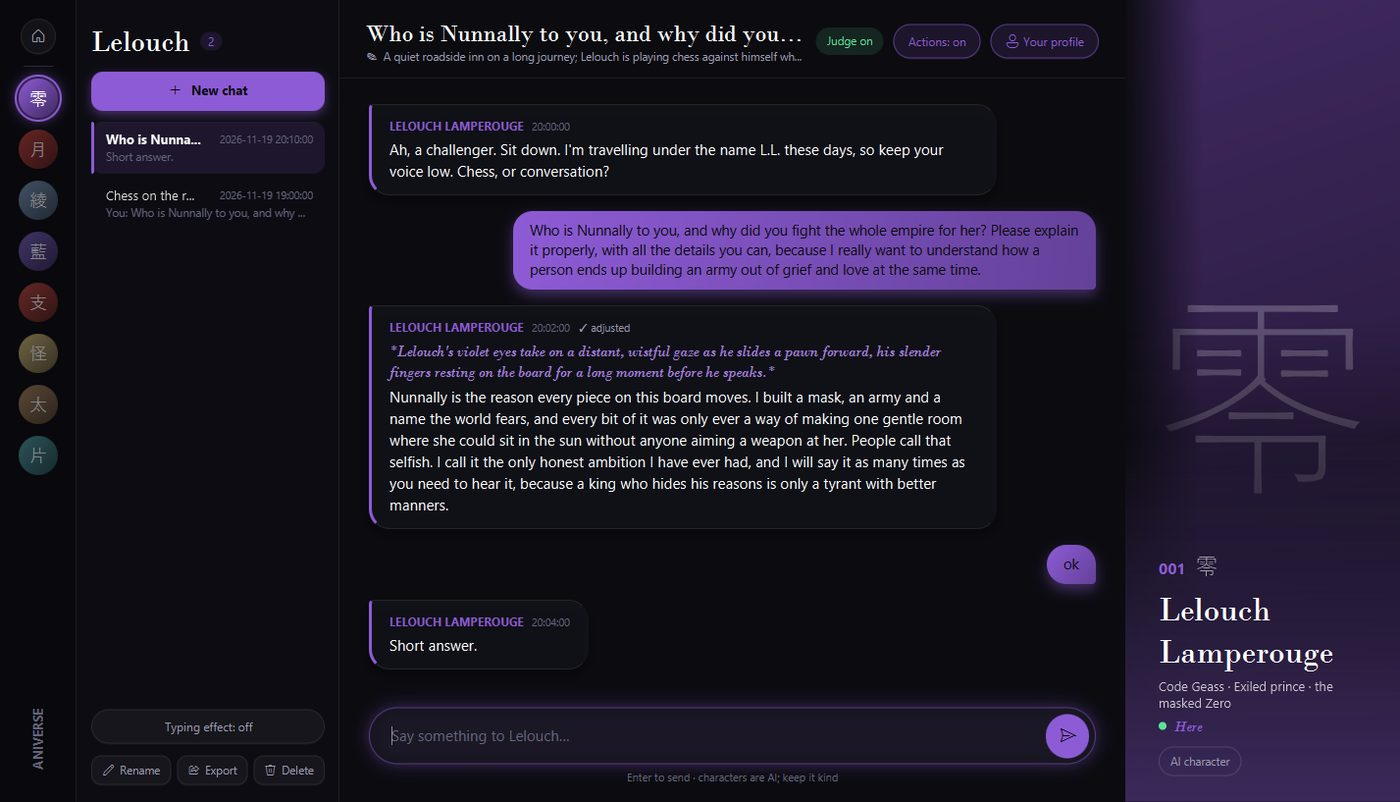
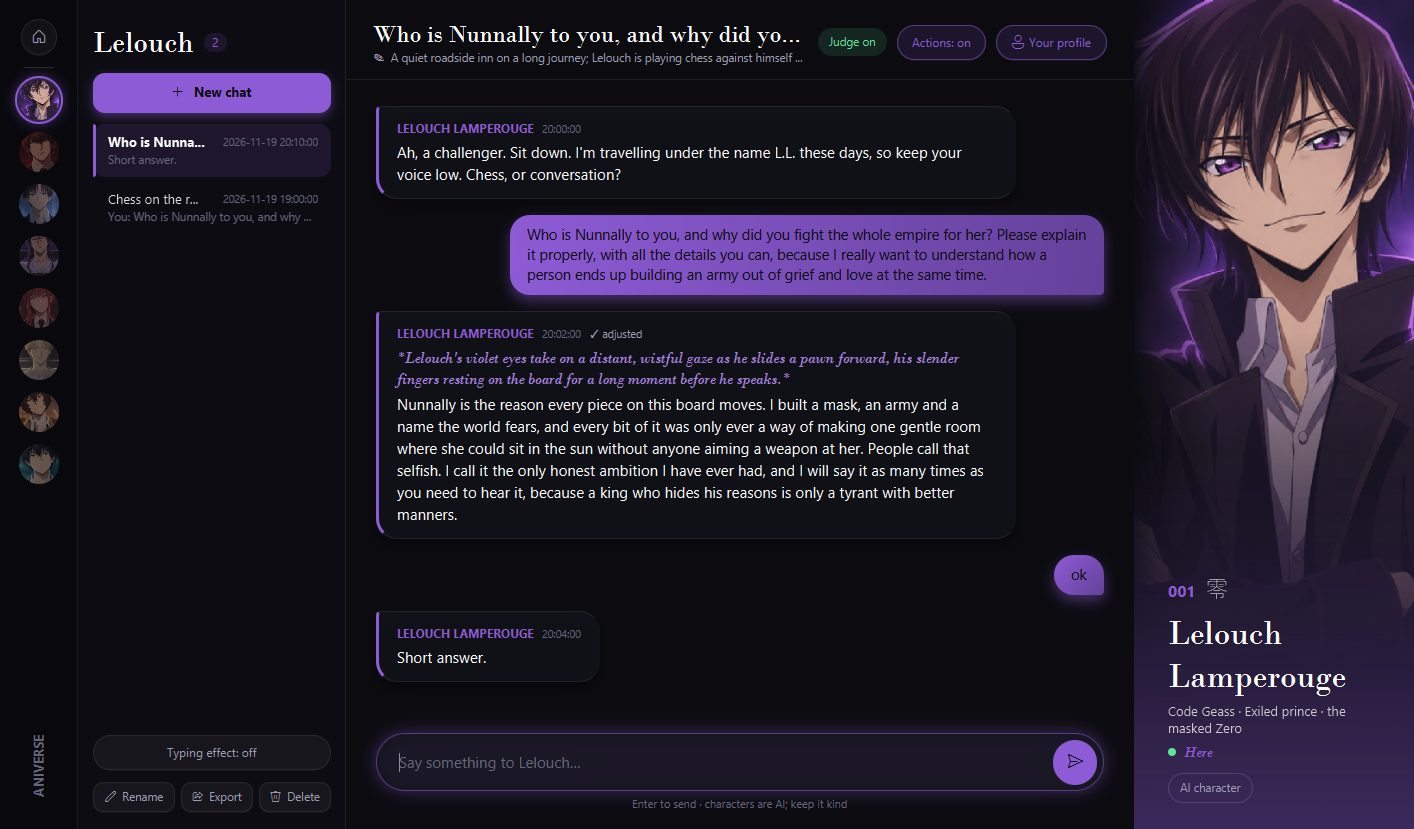
Show Ryuu Aniverse v2 screenshots with character portraits

diff --git a/index.html b/index.html
@@ -170,7 +170,7 @@ try{if(!sessionStorage.getItem('folio-welcomed')&&!matchMedia('(prefers-reduced-
     <button class="work__head" type="button" aria-expanded="false" aria-controls="work-4">
       <span class="work__no">06</span><img class="work__thumb" src="img/preview/aniverse.jpg" alt="" loading="lazy" decoding="async"><span class="work__title">Ryuu Aniverse</span><span class="work__kind">Character chat, 100 characters</span><span class="work__plus" aria-hidden="true"></span>
     </button>
-    <div class="work__panel" id="work-4"><div class="work__inner"><div class="shots shots--2"><figure class="shot"><img src="img/work/aniverse-home.jpg" alt="The Ryuu Aniverse home screen with character panels and the gallery of all characters" loading="lazy" decoding="async"></figure><figure class="shot"><img src="img/work/aniverse-chat.jpg" alt="A chat with Lelouch in Ryuu Aniverse, with an action line above his reply" loading="lazy" decoding="async"></figure></div><div class="work__grid work__grid--noart">
+    <div class="work__panel" id="work-4"><div class="work__inner"><div class="shots shots--2"><figure class="shot"><img src="img/work/aniverse-home.jpg" alt="The Ryuu Aniverse v2 home screen with character portraits and the gallery of all 100 characters" loading="lazy" decoding="async"></figure><figure class="shot"><img src="img/work/aniverse-chat.jpg" alt="A chat with Lelouch in Ryuu Aniverse v2, with an action line above his reply and his portrait beside it" loading="lazy" decoding="async"></figure></div><div class="work__grid work__grid--noart">
       <div class="work__art" aria-hidden="true"><svg viewBox="0 0 120 120"><rect x="12" y="20" width="60" height="42" rx="9"></rect><path d="M28 62 24 76 42 62"></path><rect x="48" y="56" width="60" height="42" rx="9"></rect><path d="M92 98 96 110 78 98"></path></svg></div>
       <div><p class="work__desc">Chat with 100 anime characters from 41 series on your own computer. One local model plays each of them from their own knowledge pack, and a judge checks every reply for character and facts.</p><ul class="work__facts"><li>100 characters from 41 series, each with a knowledge pack</li><li>A phi4-mini judge rewrites replies that break character or get facts wrong</li><li>Fully offline, with a profile of you for every character</li></ul></div>
       <div class="work__side"><div><p class="label">Made with</p><p>Java · JavaFX · Ollama · Llama-3 8B · phi4-mini</p></div><div class="work__links"><a class="link" href="projects/aniverse-chatbox/">Project page →</a><a class="link" href="https://github.com/Adithya210207/Ryuu-Aniverse-Chatbox" target="_blank" rel="noopener">View the code ↗</a></div></div>

diff --git a/projects/aniverse-chatbox/index.html b/projects/aniverse-chatbox/index.html
@@ -13,7 +13,7 @@
 <meta property="og:title" content="Ryuu Aniverse — chat offline with 100 anime characters | Adithya V">
 <meta property="og:description" content="Ryuu Aniverse by Adithya V: a local-AI JavaFX desktop app to chat with 100 anime characters from 41 series, with a knowledge pack per character and a judge that checks every reply. Unofficial, non-commercial fan project.">
 <meta property="og:image" content="https://adithya210207.github.io/portfolio-website/img/work/aniverse-home.jpg">
-<meta property="og:image:alt" content="The Ryuu Aniverse home screen with character panels and the gallery of all characters">
+<meta property="og:image:alt" content="The Ryuu Aniverse v2 home screen with character portraits and the gallery of all 100 characters">
 <meta name="twitter:card" content="summary_large_image">
 <meta name="twitter:title" content="Ryuu Aniverse — chat offline with 100 anime characters | Adithya V">
 <meta name="twitter:description" content="Ryuu Aniverse by Adithya V: a local-AI JavaFX desktop app to chat with 100 anime characters from 41 series, with a knowledge pack per character and a judge that checks every reply. Unofficial, non-commercial fan project.">
@@ -47,8 +47,8 @@
   </header>
 
   <div class="pp-shots pp-shots--2">
-    <figure><img src="../../img/work/aniverse-home.jpg" alt="The Ryuu Aniverse home screen with character panels and the gallery of all characters" width="1400" height="805" decoding="async"><figcaption>The Ryuu Aniverse home screen with character panels and the gallery of all characters</figcaption></figure>
-    <figure><img src="../../img/work/aniverse-chat.jpg" alt="A chat with Lelouch in Ryuu Aniverse, with an action line above his reply" width="1400" height="805" loading="lazy" decoding="async"><figcaption>A chat with Lelouch in Ryuu Aniverse, with an action line above his reply</figcaption></figure>
+    <figure><img src="../../img/work/aniverse-home.jpg" alt="The Ryuu Aniverse v2 home screen with character portraits and the gallery of all 100 characters" width="1400" height="805" decoding="async"><figcaption>The Ryuu Aniverse v2 home screen with character portraits and the gallery of all 100 characters</figcaption></figure>
+    <figure><img src="../../img/work/aniverse-chat.jpg" alt="A chat with Lelouch in Ryuu Aniverse v2, with an action line above his reply and his portrait beside it" width="1400" height="805" loading="lazy" decoding="async"><figcaption>A chat with Lelouch in Ryuu Aniverse v2, with an action line above his reply and his portrait beside it</figcaption></figure>
   </div>
 
   <div class="pp-body">

diff --git a/js/data.js b/js/data.js
@@ -179,11 +179,11 @@ window.DATA = {
       "shots": [
         [
           "img/work/aniverse-home.jpg",
-          "The Ryuu Aniverse home screen with character panels and the gallery of all characters"
+          "The Ryuu Aniverse v2 home screen with character portraits and the gallery of all 100 characters"
         ],
         [
           "img/work/aniverse-chat.jpg",
-          "A chat with Lelouch in Ryuu Aniverse, with an action line above his reply"
+          "A chat with Lelouch in Ryuu Aniverse v2, with an action line above his reply and his portrait beside it"
         ]
       ],
       "stack": "Java · JavaFX · Ollama · Llama-3 8B · phi4-mini",
